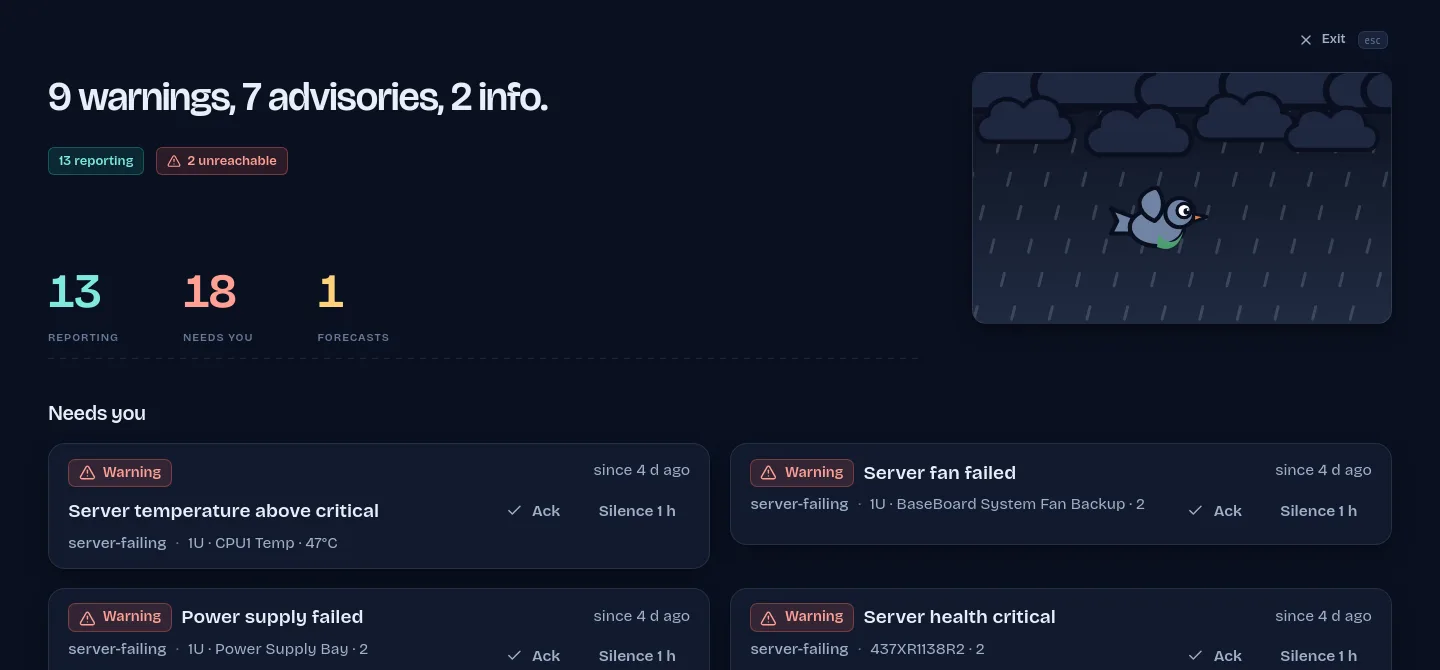
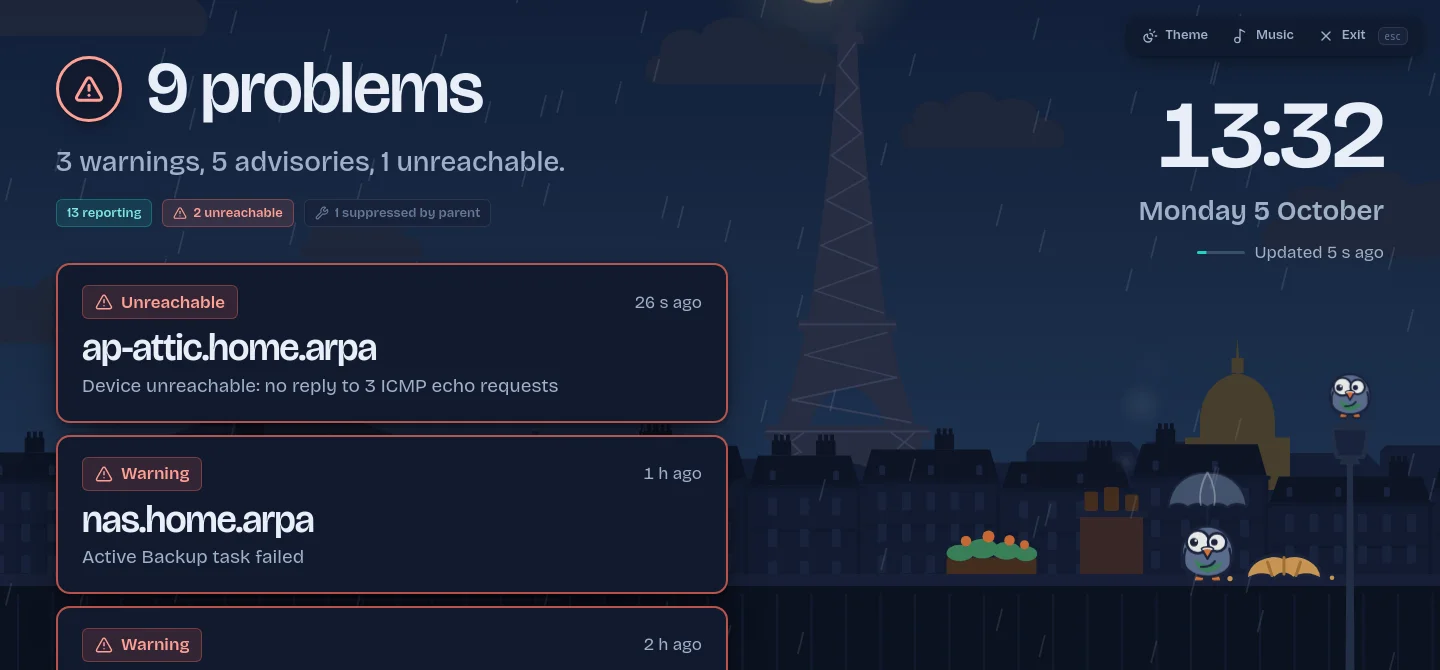
Update the website for Active Directory, the git forges, and the Paris wall
Add Active Directory, GitLab/Forgejo, Nginx/Apache, website change
detection, Synology Drive/Photos, security score, and the snooze/ignore/
clear alert actions to the feature rack and points lists. Mention account
auto-creation being off by default under Accounts.

Refresh the wall-mode hero and phone screenshots (light/dark) against a
live instance to show the new Paris rooftop scene with the Eiffel Tower
and pigeons, replacing the pre-redesign weather window. Verified desktop
(1440px) and mobile (390px) rendering in both themes with a headless
Chromium.

diff --git a/website/index.html b/website/index.html
@@ -4,7 +4,7 @@
 <meta charset="utf-8">
 <meta name="viewport" content="width=device-width, initial-scale=1">
 <title>DumbMonit: dumb-simple monitoring for homelabs and small teams</title>
-<meta name="description" content="Self-hosted monitoring in one container: SNMP, Proxmox, Synology, TrueNAS, OPNsense, an agent for Linux and Windows, uptime checks and quiet alerts. Open source, Apache 2.0. Alpha.">
+<meta name="description" content="Self-hosted monitoring in one container: SNMP, Proxmox, Synology, TrueNAS, OPNsense, Active Directory, an agent for Linux and Windows, uptime checks and quiet alerts. Open source, Apache 2.0. Alpha.">
 <meta name="color-scheme" content="light dark">
 <meta name="theme-color" content="#f3efe6" media="(prefers-color-scheme: light)">
 <meta name="theme-color" content="#0a1020" media="(prefers-color-scheme: dark)">
@@ -91,7 +91,7 @@
 					<img src="assets/shots/wall-light.webp" alt="Wall mode: the sentence '9 warnings, 7 advisories, 2 info.', readouts for reporting devices, alerts and forecasts, a stormy weather window with the pigeon, and the alerts that need you" width="1440" height="670" fetchpriority="high">
 				</picture>
 			</div>
-			<figcaption>The bulletin, on the wall screen of a test instance with failures switched on. On a quiet day it reads “Clear skies.”</figcaption>
+			<figcaption>The bulletin, on the wall screen of a test instance with failures switched on &mdash; the weather window is a living Paris rooftop with the pigeons. On a quiet day it reads “Clear skies.”</figcaption>
 		</figure>
 	</div>
 </section>
@@ -127,6 +127,7 @@
 					<li><span class="led led-advisory" aria-hidden="true"></span><span class="name">Proxmox Datacenter Manager <span class="plate plate-advisory">Test instance only</span></span><span class="what">Which clusters and backup servers the console still reaches, the whole estate on one page, failed tasks on every site.</span></li>
 					<li><span class="led led-advisory" aria-hidden="true"></span><span class="name">Server hardware (Redfish) <span class="plate plate-advisory">Reference mockups only</span></span><span class="what">Fans, temperatures against the hardware's own thresholds, power supplies and redundancy, drives, memory, the event log. Checked against the DMTF mockups, not yet a real iDRAC, iLO or Supermicro board.</span></li>
 					<li><span class="led" aria-hidden="true"></span><span class="name">Machines with the agent</span><span class="what">Linux and Windows, with macOS and FreeBSD in preview. <a href="#agent">More below.</a></span></li>
+					<li><span class="led" aria-hidden="true"></span><span class="name">Active Directory</span><span class="what">A Windows domain over LDAP with a plain, unprivileged account: FSMO roles, privileged groups, and the facts a domain audit looks for first — Kerberoastable accounts, old krbtgt password, computers without LAPS.</span></li>
 				</ul>
 			</div>
 
@@ -134,7 +135,7 @@
 				<h3>Storage and backups</h3>
 				<ul class="faceplates">
 					<li><span class="led" aria-hidden="true"></span><span class="name">Proxmox Backup Server</span><span class="what">A 30-day backup calendar per machine, failed tasks with their logs, verify and GC jobs, datastore fill-up forecast.</span></li>
-					<li><span class="led" aria-hidden="true"></span><span class="name">Synology DSM</span><span class="what">Volumes, pools, disks and SMART, temperature, Hyper Backup and Active Backup for Business with the age of the last success.</span></li>
+					<li><span class="led" aria-hidden="true"></span><span class="name">Synology DSM</span><span class="what">Volumes, pools, disks and SMART, temperature, Hyper Backup and Active Backup for Business with the age of the last success, plus Drive and Photos package status.</span></li>
 					<li><span class="led led-advisory" aria-hidden="true"></span><span class="name">TrueNAS <span class="plate plate-advisory">Test instance only</span></span><span class="what">The pool that lost a disk and still serves data, with the disk named; scrubs, quotas, snapshots, replication, SMART.</span></li>
 					<li><span class="led" aria-hidden="true"></span><span class="name">Plakar backups</span><span class="what">Age and result of the last snapshot per repository, through the agent.</span></li>
 				</ul>
@@ -143,10 +144,13 @@
 			<div class="rack-group">
 				<h3>Services and applications</h3>
 				<ul class="faceplates">
-					<li><span class="led" aria-hidden="true"></span><span class="name">Uptime checks</span><span class="what">HTTP(S) with status, keyword, JSON path and certificate; TCP port; DNS records; ping; TLS certificate expiry. History bar, response time, availability.</span></li>
+					<li><span class="led" aria-hidden="true"></span><span class="name">Uptime checks</span><span class="what">HTTP(S) with status, keyword, JSON path and certificate; TCP port; DNS records; ping; TLS certificate expiry; NTP offset and stratum. History bar, response time, availability.</span></li>
 					<li><span class="led" aria-hidden="true"></span><span class="name">Application sessions</span><span class="what">SMTP, PostgreSQL, MySQL and MariaDB, MQTT and WebSocket: a real login or handshake, so “up but refusing you” is not reported as “up”.</span></li>
 					<li><span class="led" aria-hidden="true"></span><span class="name">Heartbeats</span><span class="what">A cron job or backup script calls a secret URL; when it stops calling, you hear about it. Uptime Kuma push-compatible.</span></li>
 					<li><span class="led" aria-hidden="true"></span><span class="name">Docker containers</span><span class="what">State, health, restarts, image age and available updates, through the agent. Opt-in restart and update inside a maintenance window.</span></li>
+					<li><span class="led" aria-hidden="true"></span><span class="name">Website change detection</span><span class="what">Watch a page, or a whole site crawled from its sitemap, for changes in its visible text: before/after text, a line diff and, when available, screenshots.</span></li>
+					<li><span class="led" aria-hidden="true"></span><span class="name">GitLab and Forgejo/Gitea</span><span class="what">Sidekiq queues, CI/CD runners, scheduled tasks and database migrations on a self-managed Git forge. An ordinary access token proves the instance is up.</span></li>
+					<li><span class="led" aria-hidden="true"></span><span class="name">Nginx and Apache</span><span class="what">Active/idle workers or connections, request and byte rates, through <code>stub_status</code> or <code>mod_status</code>. No account needed.</span></li>
 					<li><span class="led led-advisory" aria-hidden="true"></span><span class="name">Proxmox Mail Gateway <span class="plate plate-advisory">Test instance only</span></span><span class="what">Postfix queues and the oldest stuck message, mail filtered today, quarantine sizes, the age of antivirus and antispam signatures.</span></li>
 				</ul>
 			</div>
@@ -200,7 +204,7 @@
 				</div>
 				<ul class="points">
 					<li><strong>Dependencies</strong><p>Declare a switch as the parent of what sits behind it. When it goes down you get one notification, not thirty; the others read “Suppressed by parent”.</p></li>
-					<li><strong>Grouped by host</strong><p>A NAS whose array degrades sends one message per cycle, not one per disk. Reminders, escalation and acknowledgement (“I know, stop reminding me”) are built in.</p></li>
+					<li><strong>Grouped by host</strong><p>A NAS whose array degrades sends one message per cycle, not one per disk. Reminders, escalation, acknowledgement, snooze, per-device ignore and clearing resolved history are all built in.</p></li>
 					<li><strong>Baselines that learn first</strong><p>Anomaly detection with no threshold to tune: 168 buckets, one per hour of the week. It stays silent for its first 14 days and only shows what it would have fired.</p></li>
 					<li><strong>Forecasts</strong><p>“This filesystem will be full within four days” is listed as a forecast, apart from what is broken right now.</p></li>
 					<li><strong>Maintenance and a notification policy</strong><p>One-off or weekly windows, hysteresis, flap hold, quiet hours, batching and an hourly cap, so a bad night does not become two hundred pushes.</p></li>
@@ -270,8 +274,9 @@ curl -sSL http://server:8080/install.sh | sh -s -- \
 			</div>
 			<div>
 				<ul class="points">
-					<li><strong>Wall mode</strong><p>The bulletin alone, full screen, for a room monitor. It keeps the screen awake.</p></li>
-					<li><strong>Accounts</strong><p>Admin and viewer roles, optional TOTP second factor, an audit log, and single sign-on over OpenID Connect (Authentik, Authelia, Keycloak, Pocket ID…).</p></li>
+					<li><strong>Wall mode</strong><p>The bulletin alone, full screen, for a room monitor: a living Paris rooftop with the Eiffel Tower and the DumbMonit pigeons, an OLED theme for a screen left on for days, and wall music &mdash; Spotify Connect turns the screen into a speaker.</p></li>
+					<li><strong>Security score</strong><p>Every supported device gets a 0–100 score and an A–F grade from the vendor’s own best-practice checks, PingCastle-style: category, severity, evidence, remediation, and a worst-first Security page.</p></li>
+					<li><strong>Accounts</strong><p>Admin and viewer roles, optional TOTP second factor, an audit log, and single sign-on over OpenID Connect (Authentik, Authelia, Keycloak, Pocket ID…), account creation off by default.</p></li>
 					<li><strong>Plays well with what you run</strong><p><code>/metrics</code>, <code>/federate</code> and a Prometheus-compatible endpoint let an existing Grafana read DumbMonit's data.</p></li>
 					<li><strong>Open, documented API</strong><p>Every route behind <code>/api/openapi.json</code> (OpenAPI 3.1): scoped tokens (<code>dmt_…</code>, read or write) that can expire, be restricted to a network, and are rate-limited. <a href="https://dumbmonit.readthedocs.io/en/latest/reference/api/">API reference</a></p></li>
 					<li><strong>An assistant over MCP</strong><p>27 tools for Claude Code, Claude Desktop, ChatGPT, VS Code or Cursor: read status, devices, alerts, metrics and agents; a write token can also silence, acknowledge, add a device or restart a container. Secrets never come back. <a href="https://dumbmonit.readthedocs.io/en/latest/using/assistant/">Connect an assistant</a></p></li>
